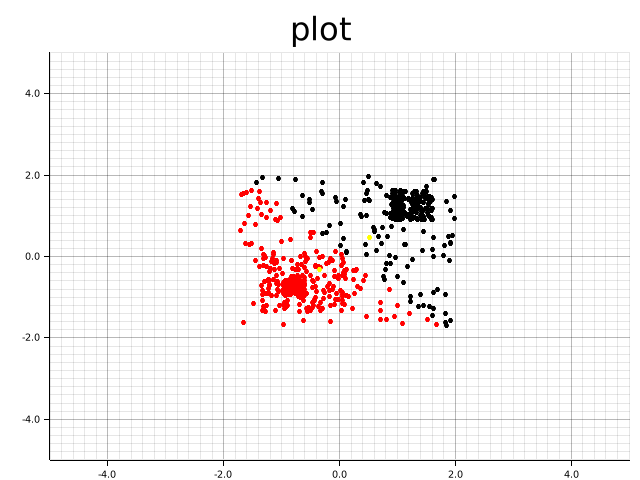
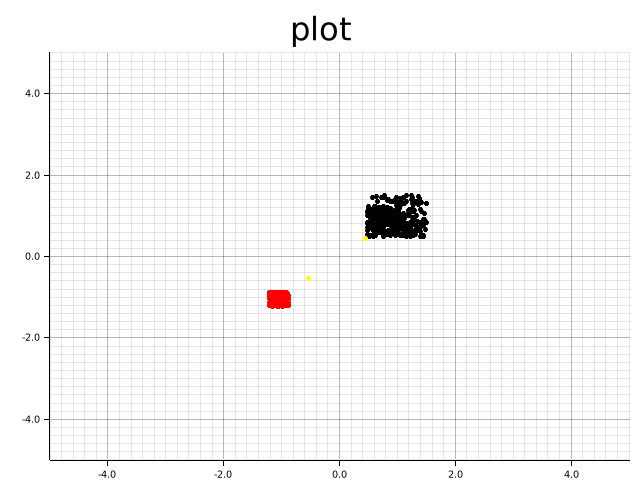
small refactor

diff --git a/src/main.rs b/src/main.rs
@@ -1,28 +1,32 @@
-use crate::kmeans::lloyd::Kmeans;
-use crate::maths::mathfuncs::{silhouette_score, create_square, print_vec, print_array, center_scale};
+use std::num::NonZeroIsize;
+
+use crate::cluster_algos::lloyd::Kmeans;
+use crate::utils::mathfuncs::{silhouette_score, create_square, center_scale};
+use crate::utils::utility::*;
 use plots::{line_plot, scatter_plot};
 use plotters::prelude::*;
 use ndarray::{Array, Array2, Axis};
 use rand::prelude::*;
-pub mod kmeans;
-pub mod maths;
+pub mod cluster_algos;
+pub mod utils;
 pub mod plots;
 
 fn main() {
     // need to cluster data somehow... Also need a plot...
-    let size = 1000;
-    let dim = 2;
-    let bias = 42.0;
-    let weight = 2.0;
-    let x = x_data_gen(size, dim);
-    let y = get_y_data(x.clone(), &weight, &bias);
-
+    //let size = 1000;
+    //let dim = 2;
+    //let bias = 42.0;
+    //let weight = 2.0;
+    //let x = x_data_gen(size, dim);
+    //let y = get_y_data(x.clone(), &weight, &bias);
+    let cluster_size = 150;
+    let noise_intensity = 0;
 
     
-    let square_1: Array2<f32> = create_square(vec![2.0, 3.0], 150, 2); // Cluster 1
-    let square_2: Array2<f32> = create_square(vec![7.0, 9.0], 150, 2); // Cluster 2
-    let square_3: Array2<f32> = create_square(vec![1.0, 5.0], 150, 2); // Cluster 3
-    let square_4: Array2<f32> = create_square(vec![0.0, 10.0], 200, 2); // A bunch of noise across them all
+    let square_1: Array2<f32> = create_square(vec![2.0, 3.0], cluster_size, 2); // Cluster 1
+    let square_2: Array2<f32> = create_square(vec![7.0, 9.0], cluster_size, 2); // Cluster 2
+    let square_3: Array2<f32> = create_square(vec![2.0, 3.0], cluster_size, 2); // Cluster 3
+    let square_4: Array2<f32> = create_square(vec![7.0, 10.0], cluster_size + noise_intensity, 2); // A bunch of noise across them all
 
     let mut data: Array2<f32> = ndarray::concatenate(
         Axis(0),
@@ -44,7 +48,7 @@ fn main() {
         max_centers: 7,
         initializer: "kmeans++",
         centroids: Array::<f32, _>::zeros((1,1)),
-        partition: vec![0;650], // 150 * 3 + 300
+        partition: vec![0; cluster_size * 4 + noise_intensity],
         max_iter: 3000,
         retries: 10
     };

diff --git a/src/utils/mathfuncs.rs b/src/utils/mathfuncs.rs
@@ -1,6 +1,7 @@
 use ndarray::{arr1, s, Array, Array1, Array2, Axis, Shape};
 use num::ToPrimitive;
 use rand::{thread_rng, Rng};
+use crate::utils::utility::*;
 
 pub fn silhouette_score(x: Array2<f32>, assignments: Vec<i32>, centroids: Array2<f32>) -> f32{
     let mut scores: Vec<f32> = vec![0.0; x.shape()[0]];
@@ -44,35 +45,6 @@ pub fn squared1d(mut x: Array1<f32>) -> Array1<f32> {
     return x;
 }
 
-pub fn argwhere(x: Vec<i32>, value: i32) -> usize {
-    for (i, val) in x.into_iter().enumerate() {
-        if value == val{
-            return i;
-        }
-    }
-    return usize::MAX;
-}
-
-pub fn max(x: Vec<f32>) -> f32 {
-    let mut maximum = - f32::INFINITY;
-    for val in x.into_iter() {
-        if val > maximum {
-            maximum = val;
-        }
-    }
-    return  maximum;
-}
-
-pub fn max_int(x: Vec<i32>) -> i32 {
-    let mut maximum = - i32::MAX;
-    for val in x.into_iter() {
-        if val > maximum {
-            maximum = val;
-        }
-    }
-    return  maximum;
-}
-
 pub fn create_square(min_max: Vec<f32>, n_points: usize, dim: usize) -> Array2<f32> {
     let mut square = Array::<f32, _>::zeros((n_points, dim));
     let mut rng = thread_rng();
@@ -82,30 +54,6 @@ pub fn create_square(min_max: Vec<f32>, n_points: usize, dim: usize) -> Array2<f
         }
     }
     return square
-}
-
-pub fn print_vec(vector: &Vec<i32>) {
-    for val in vector.into_iter() {
-        let string = val.to_string();
-        print!("{string} ");
-    }
-}
-
-pub fn print_array(array: &Array2<f32>) {
-    for row in array.rows().into_iter() {
-        for value in row.into_iter() {
-            let value_str = value.to_string();
-            print!("{value_str} ");
-        }
-        print!(" | ");
-    }
-}
-
-pub fn print_array1d (array : &Array1<f32>) {
-    for value in array.into_iter() {
-        let value_str = value.to_string();
-        print!("{value_str} ");
-    }
 }
 
 pub fn cumsum (x: &mut Array1<f32>) {

diff --git a/src/utils/utility.rs b/src/utils/utility.rs
@@ -1,0 +1,55 @@
+use ndarray::prelude::*;
+
+
+pub fn max(x: Vec<f32>) -> f32 {
+    let mut maximum = - f32::INFINITY;
+    for val in x.into_iter() {
+        if val > maximum {
+            maximum = val;
+        }
+    }
+    return  maximum;
+}
+
+pub fn max_int(x: Vec<i32>) -> i32 {
+    let mut maximum = - i32::MAX;
+    for val in x.into_iter() {
+        if val > maximum {
+            maximum = val;
+        }
+    }
+    return  maximum;
+}
+
+pub fn print_vec(vector: &Vec<i32>) {
+    for val in vector.into_iter() {
+        let string = val.to_string();
+        print!("{string} ");
+    }
+}
+
+pub fn print_array(array: &Array2<f32>) {
+    for row in array.rows().into_iter() {
+        for value in row.into_iter() {
+            let value_str = value.to_string();
+            print!("{value_str} ");
+        }
+        print!(" | ");
+    }
+}
+
+pub fn print_array1d (array : &Array1<f32>) {
+    for value in array.into_iter() {
+        let value_str = value.to_string();
+        print!("{value_str} ");
+    }
+}
+
+pub fn argwhere(x: Vec<i32>, value: i32) -> usize {
+    for (i, val) in x.into_iter().enumerate() {
+        if value == val{
+            return i;
+        }
+    }
+    return usize::MAX;
+}

diff --git a/src/plots.rs b/src/plots.rs
@@ -2,7 +2,8 @@ use std::{thread::panicking, vec};
 use num::ToPrimitive;
 use plotters::{prelude::*, style::full_palette::CYAN_A700};
 use ndarray::{array, Array, Array1, Array2};
-use crate::maths::mathfuncs::{max_int, print_vec, print_array};
+use crate::utils::mathfuncs::*;
+use crate::utils::utility::*;
 
 pub fn line_plot(x: &Array2<f64>, y: &Array1<f64>, pred: &Array1<f64>, name: String) -> Result<(), Box<dyn std::error::Error>> {
 

diff --git a/src/cluster_algos/lloyd.rs b/src/cluster_algos/lloyd.rs
@@ -2,7 +2,8 @@ use std::vec;
 use rand::prelude::*;
 use ndarray::{Array, Array1, Array2, arr2};
 use num::ToPrimitive;
-use crate::maths::mathfuncs::{silhouette_score, l2, print_vec, print_array, print_array1d, cumsum};
+use crate::utils::mathfuncs::{silhouette_score, l2, cumsum};
+use crate::utils::utility::*;
 
 pub struct Kmeans {
     pub centers: i32 ,

diff --git a/src/cluster_algos.rs b/src/cluster_algos.rs
@@ -1,0 +1,2 @@
+pub mod lloyd;
+pub mod agglomerative;

diff --git a/src/utils.rs b/src/utils.rs
@@ -1,0 +1,2 @@
+pub mod mathfuncs;
+pub mod utility;
